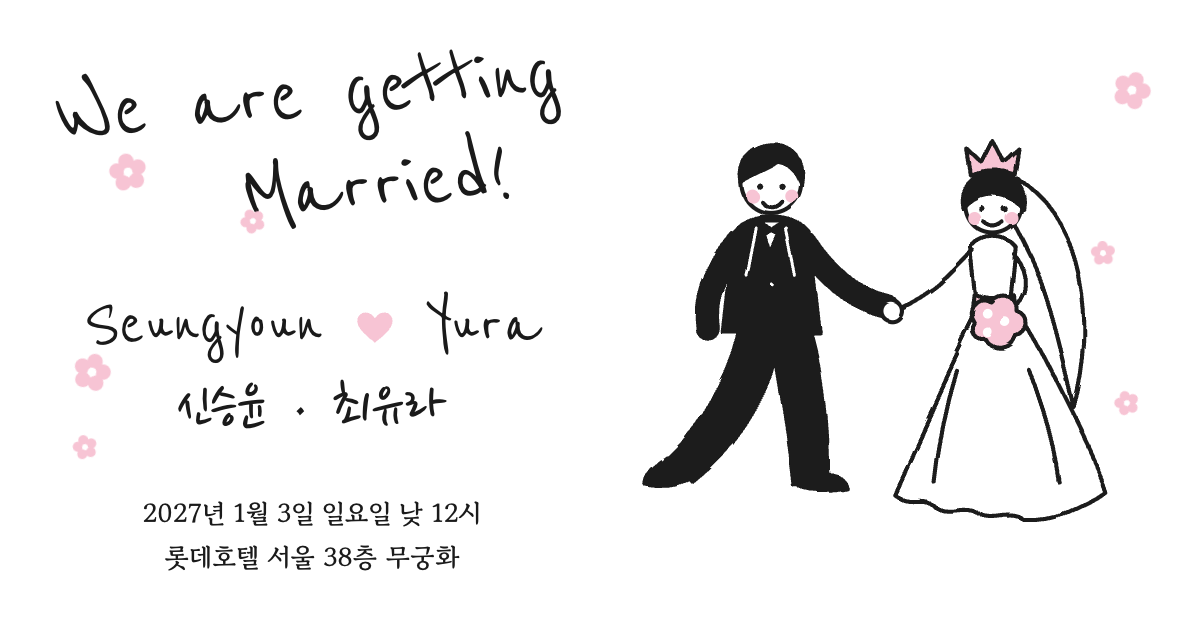
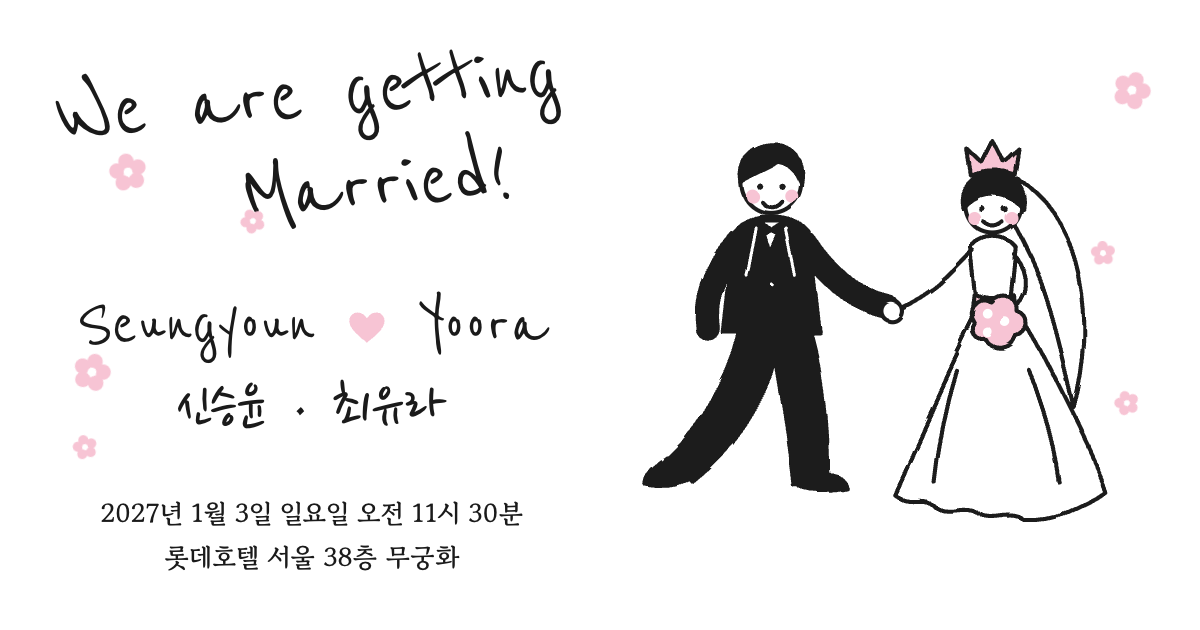
예식 시간 오전 11시 30분, 신부 영문 이름 Yoora로 수정
Claude-Session: https://claude.ai/code/session_012UtQ9t3yw5ECzKQRcxLZ2m

Changed region(s): [[0.0617, 0.4524, 0.4625, 0.573], [0.0925, 0.7841, 0.4317, 0.8444], [0.1542, 0.6333, 0.185, 0.6635]]

diff --git a/index.html b/index.html
@@ -6,12 +6,12 @@
 <meta name="color-scheme" content="light only">
 <meta name="theme-color" content="#ffffff">
 <title>신승윤 · 최유라 결혼합니다</title>
-<meta name="description" content="2027년 1월 3일 일요일 낮 12시, 롯데호텔 서울 38층 무궁화">
+<meta name="description" content="2027년 1월 3일 일요일 오전 11시 30분, 롯데호텔 서울 38층 무궁화">
 
 <meta property="og:type" content="website">
 <meta property="og:url" content="https://seungyounshin.github.io/wedding-invitation/">
 <meta property="og:title" content="신승윤 · 최유라 결혼합니다">
-<meta property="og:description" content="2027년 1월 3일 일요일 낮 12시, 롯데호텔 서울 38층 무궁화">
+<meta property="og:description" content="2027년 1월 3일 일요일 오전 11시 30분, 롯데호텔 서울 38층 무궁화">
 <meta property="og:image" content="https://seungyounshin.github.io/wedding-invitation/images/og.png">
 <meta property="og:image:width" content="1200">
 <meta property="og:image:height" content="630">
@@ -108,10 +108,10 @@
     </button>
 
     <h1 class="names">
-      <span class="pair">Seungyoun <svg viewBox="0 0 24 22" aria-hidden="true"><path d="M12 20C4 14 1 10 2 6c1-4 7-5 10 0 3-5 9-4 10 0 1 4-2 8-10 14Z"/></svg> Yura</span>
+      <span class="pair">Seungyoun <svg viewBox="0 0 24 22" aria-hidden="true"><path d="M12 20C4 14 1 10 2 6c1-4 7-5 10 0 3-5 9-4 10 0 1 4-2 8-10 14Z"/></svg> Yoora</span>
       <span class="kr">신승윤 · 최유라</span>
     </h1>
-    <p class="when">2027년 1월 3일 일요일 낮 12시<br>롯데호텔 서울 38층 무궁화</p>
+    <p class="when">2027년 1월 3일 일요일 오전 11시 30분<br>롯데호텔 서울 38층 무궁화</p>
   </header>
 
   <section class="letter">
@@ -129,7 +129,7 @@
 
   <section class="month" aria-label="2027년 1월 달력">
     <h2 class="write">1월 3일</h2>
-    <p class="sub">일요일 낮 12시</p>
+    <p class="sub">일요일 오전 11시 30분</p>
     <div class="cal">
       <b>일</b><b>월</b><b>화</b><b>수</b><b>목</b><b>금</b><b>토</b>
       <span></span><span></span><span></span><span></span><span></span>
